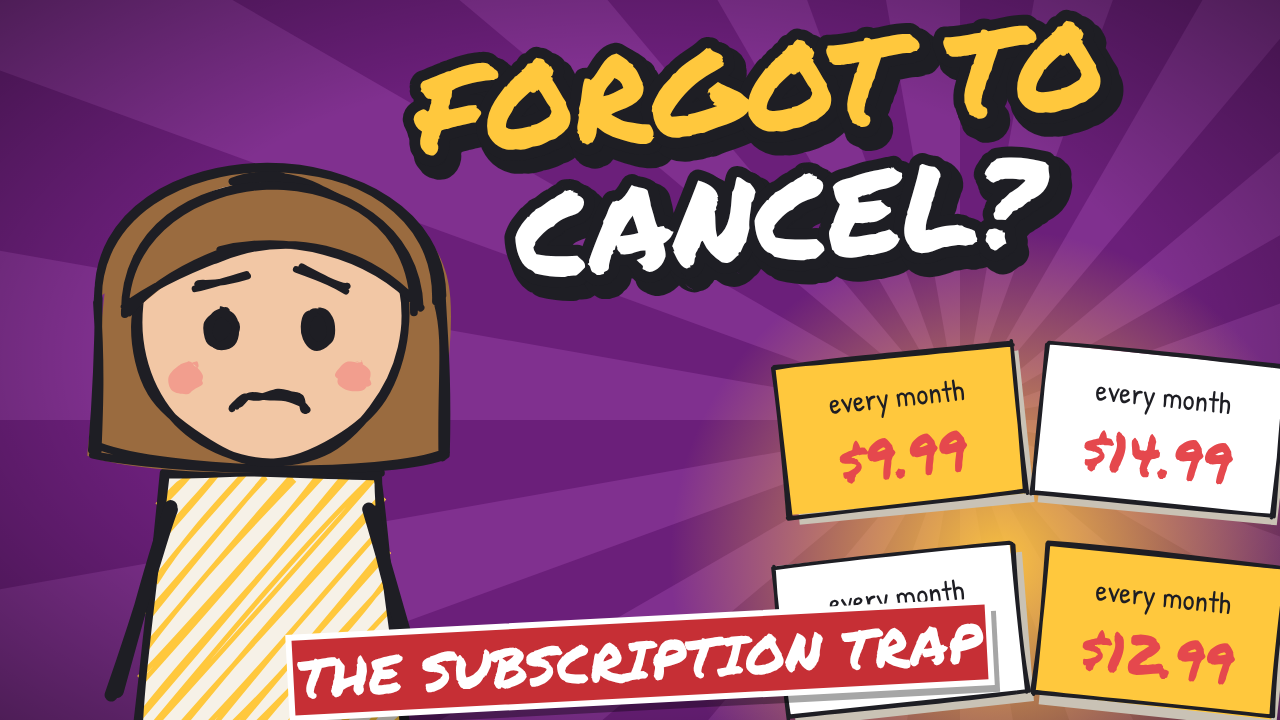
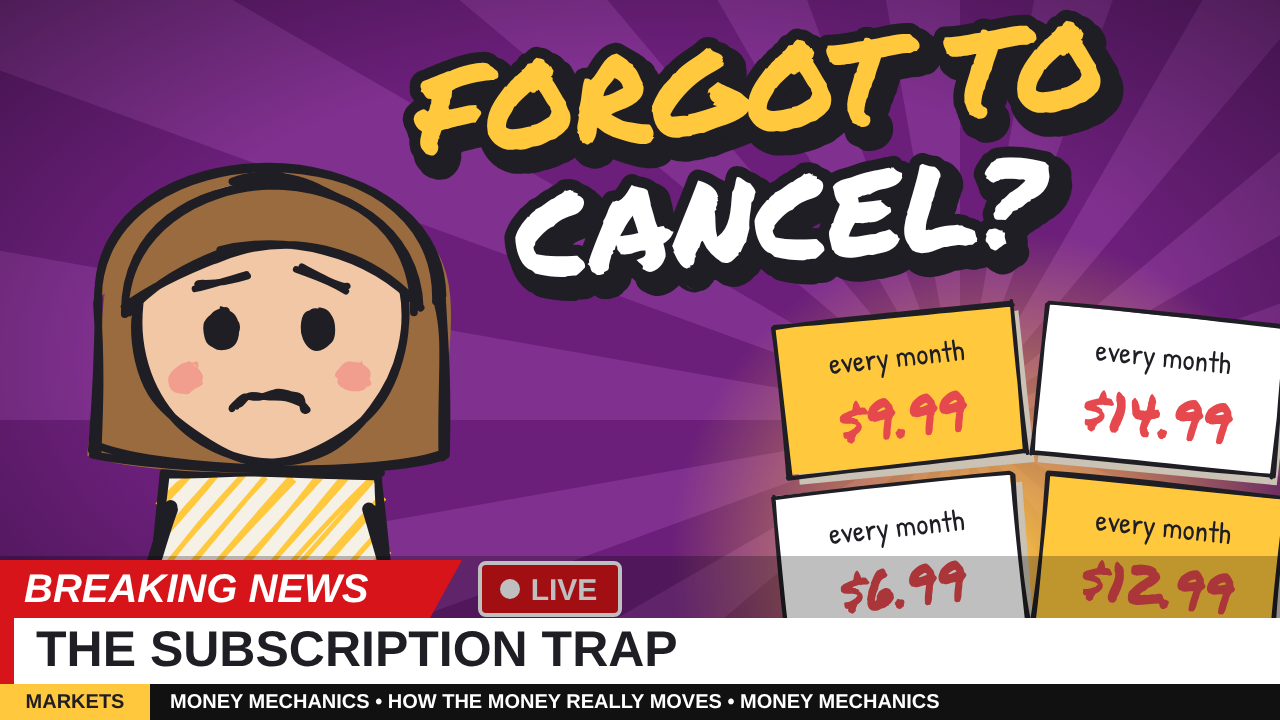
Redesign all 8 thumbnails in a Breaking News style
Claude-Session: https://claude.ai/code/session_019UqVAbhSHUU6wetyF5bYLf

Changed region(s): [[0.0, 0.3972, 1.0, 1.0]]

diff --git a/youtube_channel/animation/src/lib/thumbkit.tsx b/youtube_channel/animation/src/lib/thumbkit.tsx
@@ -115,3 +115,35 @@ export const Ribbon: React.FC<{x: number; y: number; w: number; text: string; bg
 		</text>
 	</g>
 );
+
+/** "Breaking News" lower third: red BREAKING tab, white headline strip, dark ticker, plus a LIVE badge top-right. */
+export const NewsBar: React.FC<{text: string; ticker?: string}> = ({text, ticker = 'MONEY MECHANICS  •  HOW THE MONEY REALLY MOVES  •  MONEY MECHANICS'}) => (
+	<g>
+		<g transform="translate(550 589)">
+			<rect x={-70} y={-26} width={140} height={52} rx={6} fill="#D7141A" stroke={C.white} strokeWidth={4} />
+			<circle cx={-40} cy={0} r={10} fill={C.white} />
+			<text x={14} y={3} textAnchor="middle" dominantBaseline="middle" fontFamily="Arial Black, Arial, sans-serif" fontWeight={900} fontSize={30} fill={C.white}>
+				LIVE
+			</text>
+		</g>
+		<rect x={0} y={556} width={1280} height={164} fill="#000" opacity={0.25} />
+		<rect x={0} y={560} width={430} height={58} fill="#D7141A" />
+		<polygon points="430,560 462,560 430,618" fill="#D7141A" />
+		<text x={24} y={591} dominantBaseline="middle" fontFamily="Arial Black, Arial, sans-serif" fontWeight={900} fontSize={40} fill={C.white} fontStyle="italic">
+			BREAKING NEWS
+		</text>
+		<rect x={0} y={618} width={1280} height={66} fill={C.white} />
+		<rect x={0} y={618} width={14} height={66} fill="#D7141A" />
+		<text x={36} y={653} dominantBaseline="middle" fontFamily="Arial Black, Arial, sans-serif" fontWeight={900} fontSize={text.length > 24 ? 44 : 50} fill={C.ink}>
+			{text}
+		</text>
+		<rect x={0} y={684} width={1280} height={36} fill="#111" />
+		<rect x={0} y={684} width={150} height={36} fill={C.yellow} />
+		<text x={75} y={703} textAnchor="middle" dominantBaseline="middle" fontFamily="Arial Black, Arial, sans-serif" fontWeight={900} fontSize={20} fill={C.ink}>
+			MARKETS
+		</text>
+		<text x={170} y={703} dominantBaseline="middle" fontFamily="Arial, sans-serif" fontWeight={700} fontSize={20} fill={C.white}>
+			{ticker}
+		</text>
+	</g>
+);

diff --git a/youtube_channel/animation/src/ep06/Thumb.tsx b/youtube_channel/animation/src/ep06/Thumb.tsx
@@ -2,7 +2,7 @@ import React from 'react';
 import {Penny} from '../lib/characters';
 import {Card} from '../lib/props';
 import {C, G, T} from '../lib/rough';
-import {Burst, Glow, Headline, Ribbon, ThumbFrame, ThumbPenny} from '../lib/thumbkit';
+import {Burst, Glow, Headline, NewsBar, ThumbFrame, ThumbPenny} from '../lib/thumbkit';
 
 /** Ep. 6 thumbnail: a pile of monthly charges, "FORGOT TO CANCEL?". */
 export const Ep06Thumb: React.FC = () => {
@@ -15,7 +15,7 @@ export const Ep06Thumb: React.FC = () => {
 			</G>
 			<Glow x={1000} y={560} r={330} />
 			{subs.map((s, i) => (
-				<G key={s} x={900 + (i % 2) * 260} y={430 + Math.floor(i / 2) * 200} r={(i % 2 ? 6 : -6)}>
+				<G key={s} x={900 + (i % 2) * 260} y={390 + Math.floor(i / 2) * 170} r={(i % 2 ? 6 : -6)}>
 					<Card w={240} h={150} seed={i + 3} fill={i % 3 ? C.white : C.yellow}>
 						<T x={0} y={-30} size={30}>every month</T>
 						<T x={0} y={30} size={56} font="marker" color={C.red}>{s}</T>
@@ -28,7 +28,7 @@ export const Ep06Thumb: React.FC = () => {
 			<Headline x={780} y={225} size={120} color={'#FFFFFF'}>
 				CANCEL?
 			</Headline>
-			<Ribbon x={640} y={660} w={700} text="THE SUBSCRIPTION TRAP" bg="#C62F35" color="#FFFFFF" />
+			<NewsBar text="THE SUBSCRIPTION TRAP" />
 		</ThumbFrame>
 	);
 };

diff --git a/youtube_channel/animation/src/ep08/Thumb.tsx b/youtube_channel/animation/src/ep08/Thumb.tsx
@@ -2,7 +2,7 @@ import React from 'react';
 import {Penny} from '../lib/characters';
 import {Card} from '../lib/props';
 import {C, G, T} from '../lib/rough';
-import {Burst, Glow, Headline, Ribbon, ThumbFrame, ThumbPenny} from '../lib/thumbkit';
+import {Burst, Glow, Headline, NewsBar, ThumbFrame, ThumbPenny} from '../lib/thumbkit';
 
 /** Ep. 8 thumbnail: a $34 fee on a $24 lunch, "17,000%". */
 export const Ep08Thumb: React.FC = () => (
@@ -12,7 +12,7 @@ export const Ep08Thumb: React.FC = () => (
 			<ThumbPenny><Penny mood="shocked" /></ThumbPenny>
 		</G>
 		<Glow x={1000} y={520} r={330} />
-		<G x={1000} y={500} r={5}>
+		<G x={1000} y={430} r={5}>
 			<Card w={520} h={260} seed={8} fill={C.white}>
 				<T x={-220} y={-60} size={48} anchor="start">lunch</T>
 				<T x={220} y={-60} size={60} font="marker" anchor="end">$24</T>
@@ -26,6 +26,6 @@ export const Ep08Thumb: React.FC = () => (
 		<Headline x={770} y={225} size={86} color={'#FFFFFF'}>
 			FOR BEING BROKE
 		</Headline>
-		<Ribbon x={640} y={660} w={700} text="THE TAX ON BEING BROKE" bg="#C62F35" color="#FFFFFF" />
+		<NewsBar text="THE TAX ON BEING BROKE" />
 	</ThumbFrame>
 );

diff --git a/youtube_channel/animation/src/ep02/Thumb.tsx b/youtube_channel/animation/src/ep02/Thumb.tsx
@@ -2,7 +2,7 @@ import React from 'react';
 import {Penny} from '../lib/characters';
 import {HotDog, MemberCard} from '../lib/props2';
 import {C, G} from '../lib/rough';
-import {Arrow, Burst, Glow, Headline, ThumbPenny, Ribbon, ThumbFrame} from '../lib/thumbkit';
+import {Arrow, Burst, Glow, Headline, ThumbPenny, NewsBar, ThumbFrame} from '../lib/thumbkit';
 
 /** Ep. 2 thumbnail: giant membership card as the real product, "$5.3B" from fees. */
 export const Ep02Thumb: React.FC = () => (
@@ -22,6 +22,6 @@ export const Ep02Thumb: React.FC = () => (
 		<Headline x={900} y={115} size={170}>
 			$5.3B
 		</Headline>
-		<Ribbon x={850} y={660} w={740} text="COSTCO'S REAL PRODUCT" size={50} />
+		<NewsBar text="COSTCO'S REAL PRODUCT" />
 	</ThumbFrame>
 );

diff --git a/youtube_channel/animation/src/ep05/Thumb.tsx b/youtube_channel/animation/src/ep05/Thumb.tsx
@@ -2,7 +2,7 @@ import React from 'react';
 import {Penny} from '../lib/characters';
 import {Phone} from '../lib/props';
 import {G} from '../lib/rough';
-import {Burst, Glow, Headline, Ribbon, ThumbFrame, ThumbPenny} from '../lib/thumbkit';
+import {Burst, Glow, Headline, NewsBar, ThumbFrame, ThumbPenny} from '../lib/thumbkit';
 import {Feed} from './Ep05';
 
 /** Ep. 5 thumbnail: Penny inside the phone, "YOU'RE THE PRODUCT". */
@@ -22,6 +22,6 @@ export const Ep05Thumb: React.FC = () => (
 		<Headline x={760} y={225} size={78} color={'#FFFFFF'}>
 			YOU&apos;RE THE PRODUCT
 		</Headline>
-		<Ribbon x={640} y={660} w={700} text="WHO PAYS FOR FREE APPS" bg="#C62F35" color="#FFFFFF" />
+		<NewsBar text="WHO PAYS FOR FREE APPS" />
 	</ThumbFrame>
 );

diff --git a/youtube_channel/animation/src/ep01/Thumb.tsx b/youtube_channel/animation/src/ep01/Thumb.tsx
@@ -2,7 +2,7 @@ import React from 'react';
 import {Broker, Penny} from '../lib/characters';
 import {Cash} from '../lib/props';
 import {G} from '../lib/rough';
-import {Arrow, Burst, Glow, Headline, ThumbPenny, Ribbon, ThumbFrame} from '../lib/thumbkit';
+import {Arrow, Burst, Glow, Headline, ThumbPenny, NewsBar, ThumbFrame} from '../lib/thumbkit';
 
 /** Ep. 1 thumbnail: shocked Penny, smirking broker, tiny cash for her guitar, "$150?!". */
 export const Ep01Thumb: React.FC = () => (
@@ -22,6 +22,6 @@ export const Ep01Thumb: React.FC = () => (
 		<Headline x={870} y={150} size={200}>
 			$150?!
 		</Headline>
-		<Ribbon x={860} y={655} w={760} text="THE PAWN SHOP TRICK" />
+		<NewsBar text="THE PAWN SHOP TRICK" />
 	</ThumbFrame>
 );

diff --git a/youtube_channel/animation/src/ep04/Thumb.tsx b/youtube_channel/animation/src/ep04/Thumb.tsx
@@ -1,7 +1,7 @@
 import React from 'react';
 import {Penny} from '../lib/characters';
 import {G} from '../lib/rough';
-import {Burst, Glow, Headline, ThumbPenny, Ribbon, ThumbFrame} from '../lib/thumbkit';
+import {Burst, Glow, Headline, ThumbPenny, NewsBar, ThumbFrame} from '../lib/thumbkit';
 import {SlotMachine} from './Ep04';
 
 /** Ep. 4 thumbnail: shocked Penny, jackpot slot machine, "RIGGED BY MATH". */
@@ -21,6 +21,6 @@ export const Ep04Thumb: React.FC = () => (
 		<Headline x={800} y={225} size={110} color={'#FFFFFF'}>
 			BY MATH
 		</Headline>
-		<Ribbon x={640} y={660} w={700} text="THE HOUSE NEVER LOSES" bg="#C62F35" color="#FFFFFF" />
+		<NewsBar text="THE HOUSE NEVER LOSES" />
 	</ThumbFrame>
 );

diff --git a/youtube_channel/animation/src/ep07/Thumb.tsx b/youtube_channel/animation/src/ep07/Thumb.tsx
@@ -1,7 +1,7 @@
 import React from 'react';
 import {Penny} from '../lib/characters';
 import {G} from '../lib/rough';
-import {Burst, Glow, Headline, Ribbon, ThumbFrame, ThumbPenny} from '../lib/thumbkit';
+import {Burst, Glow, Headline, NewsBar, ThumbFrame, ThumbPenny} from '../lib/thumbkit';
 import {PayIn4} from './Ep07';
 
 /** Ep. 7 thumbnail: the glowing Pay in 4 button, "0% INTEREST?". */
@@ -21,6 +21,6 @@ export const Ep07Thumb: React.FC = () => (
 		<Headline x={770} y={225} size={86} color={'#FFFFFF'}>
 			SO WHO PROFITS
 		</Headline>
-		<Ribbon x={640} y={660} w={700} text="BUY NOW, PAY MORE" bg="#C62F35" color="#FFFFFF" />
+		<NewsBar text="BUY NOW, PAY MORE" />
 	</ThumbFrame>
 );

diff --git a/youtube_channel/animation/src/ep03/Thumb.tsx b/youtube_channel/animation/src/ep03/Thumb.tsx
@@ -1,7 +1,7 @@
 import React from 'react';
 import {Penny} from '../lib/characters';
 import {G} from '../lib/rough';
-import {Burst, Glow, Headline, ThumbPenny, Ring, Ribbon, ThumbFrame} from '../lib/thumbkit';
+import {Burst, Glow, Headline, ThumbPenny, Ring, NewsBar, ThumbFrame} from '../lib/thumbkit';
 import {CreditCard} from './Ep03';
 
 /** Ep. 3 thumbnail: glowing credit card, "19 YEARS?!" to pay off the minimum. */
@@ -19,6 +19,6 @@ export const Ep03Thumb: React.FC = () => (
 		<Headline x={880} y={110} size={150}>
 			19 YEARS?!
 		</Headline>
-		<Ribbon x={860} y={660} w={740} text="DON'T PAY THE MINIMUM" size={50} />
+		<NewsBar text="DON'T PAY THE MINIMUM" />
 	</ThumbFrame>
 );
